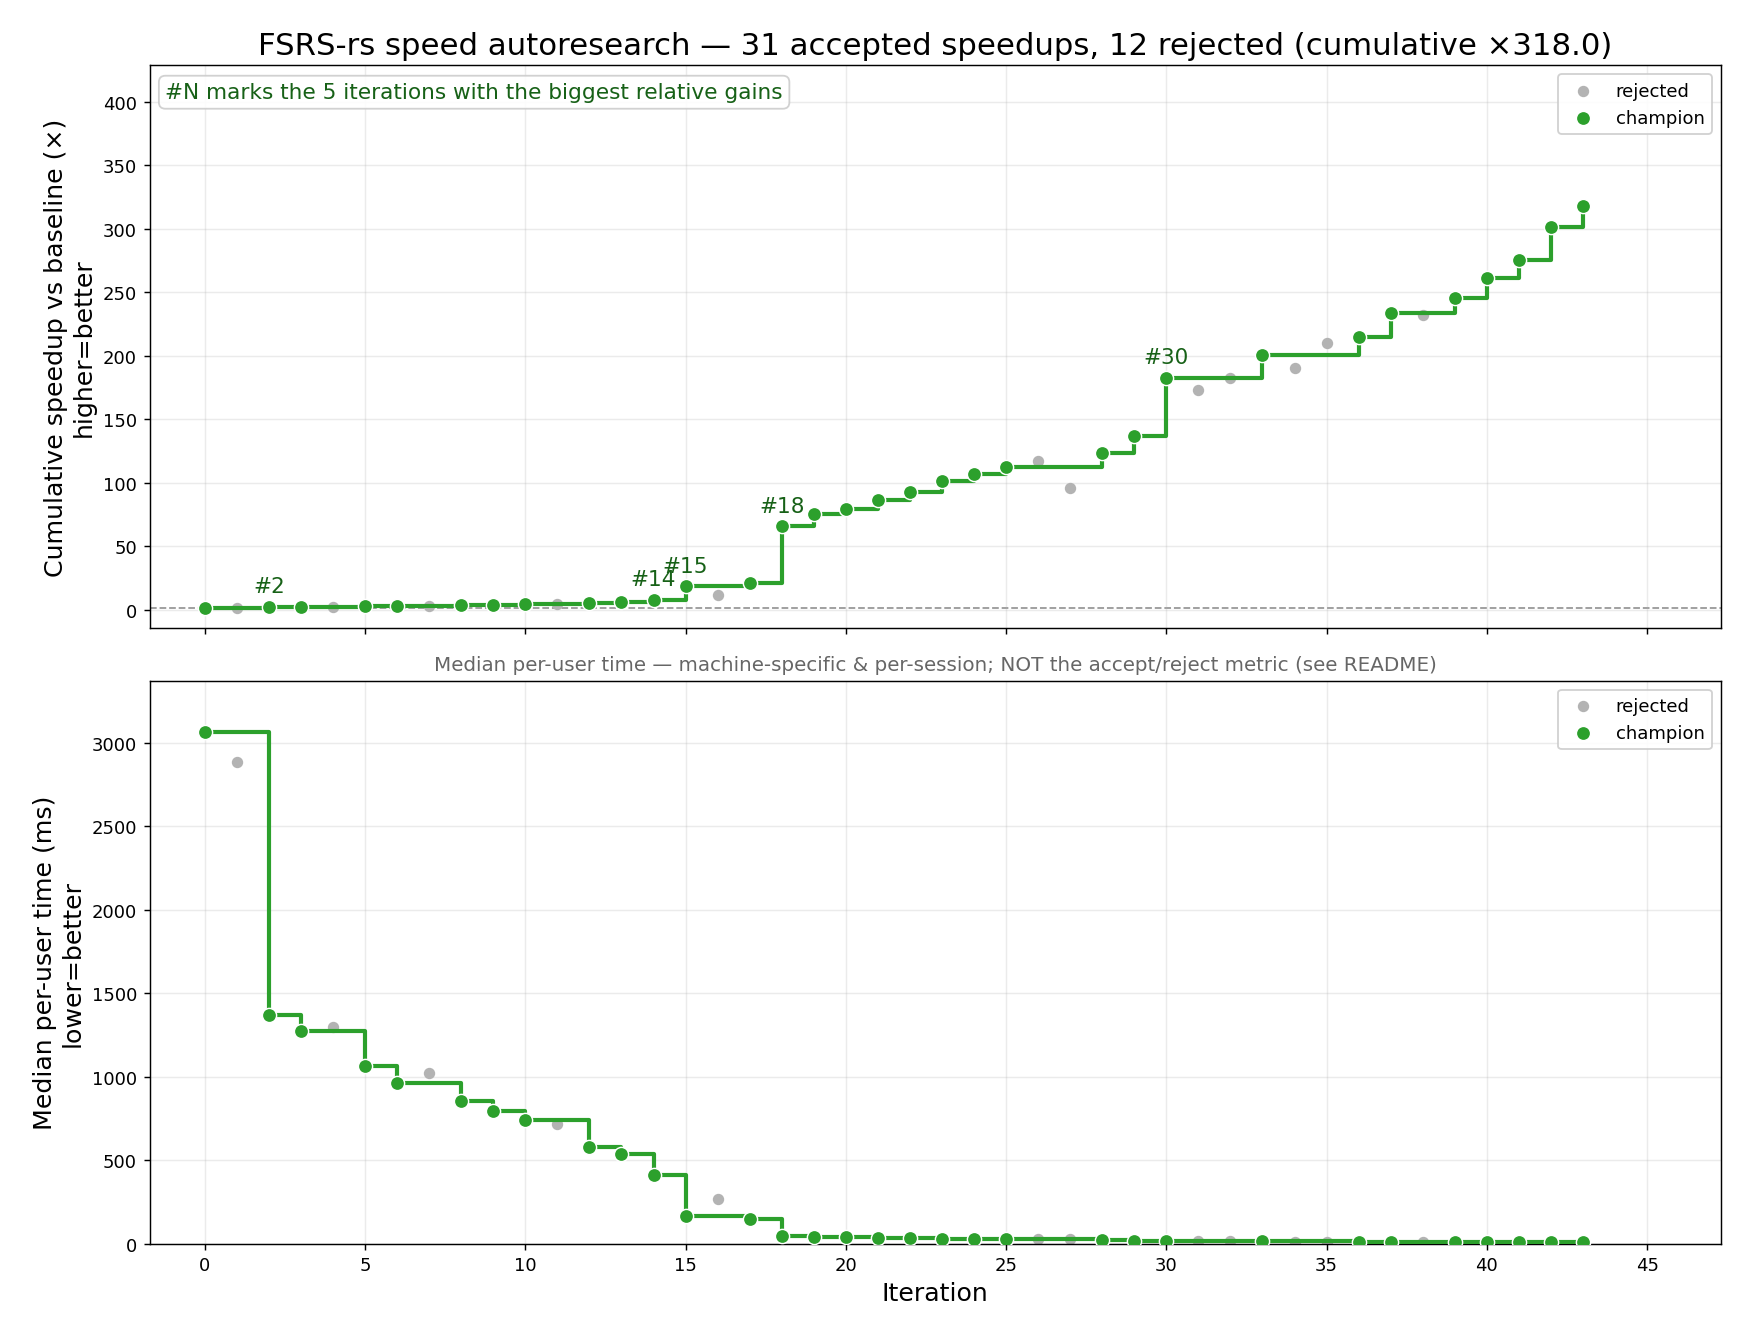
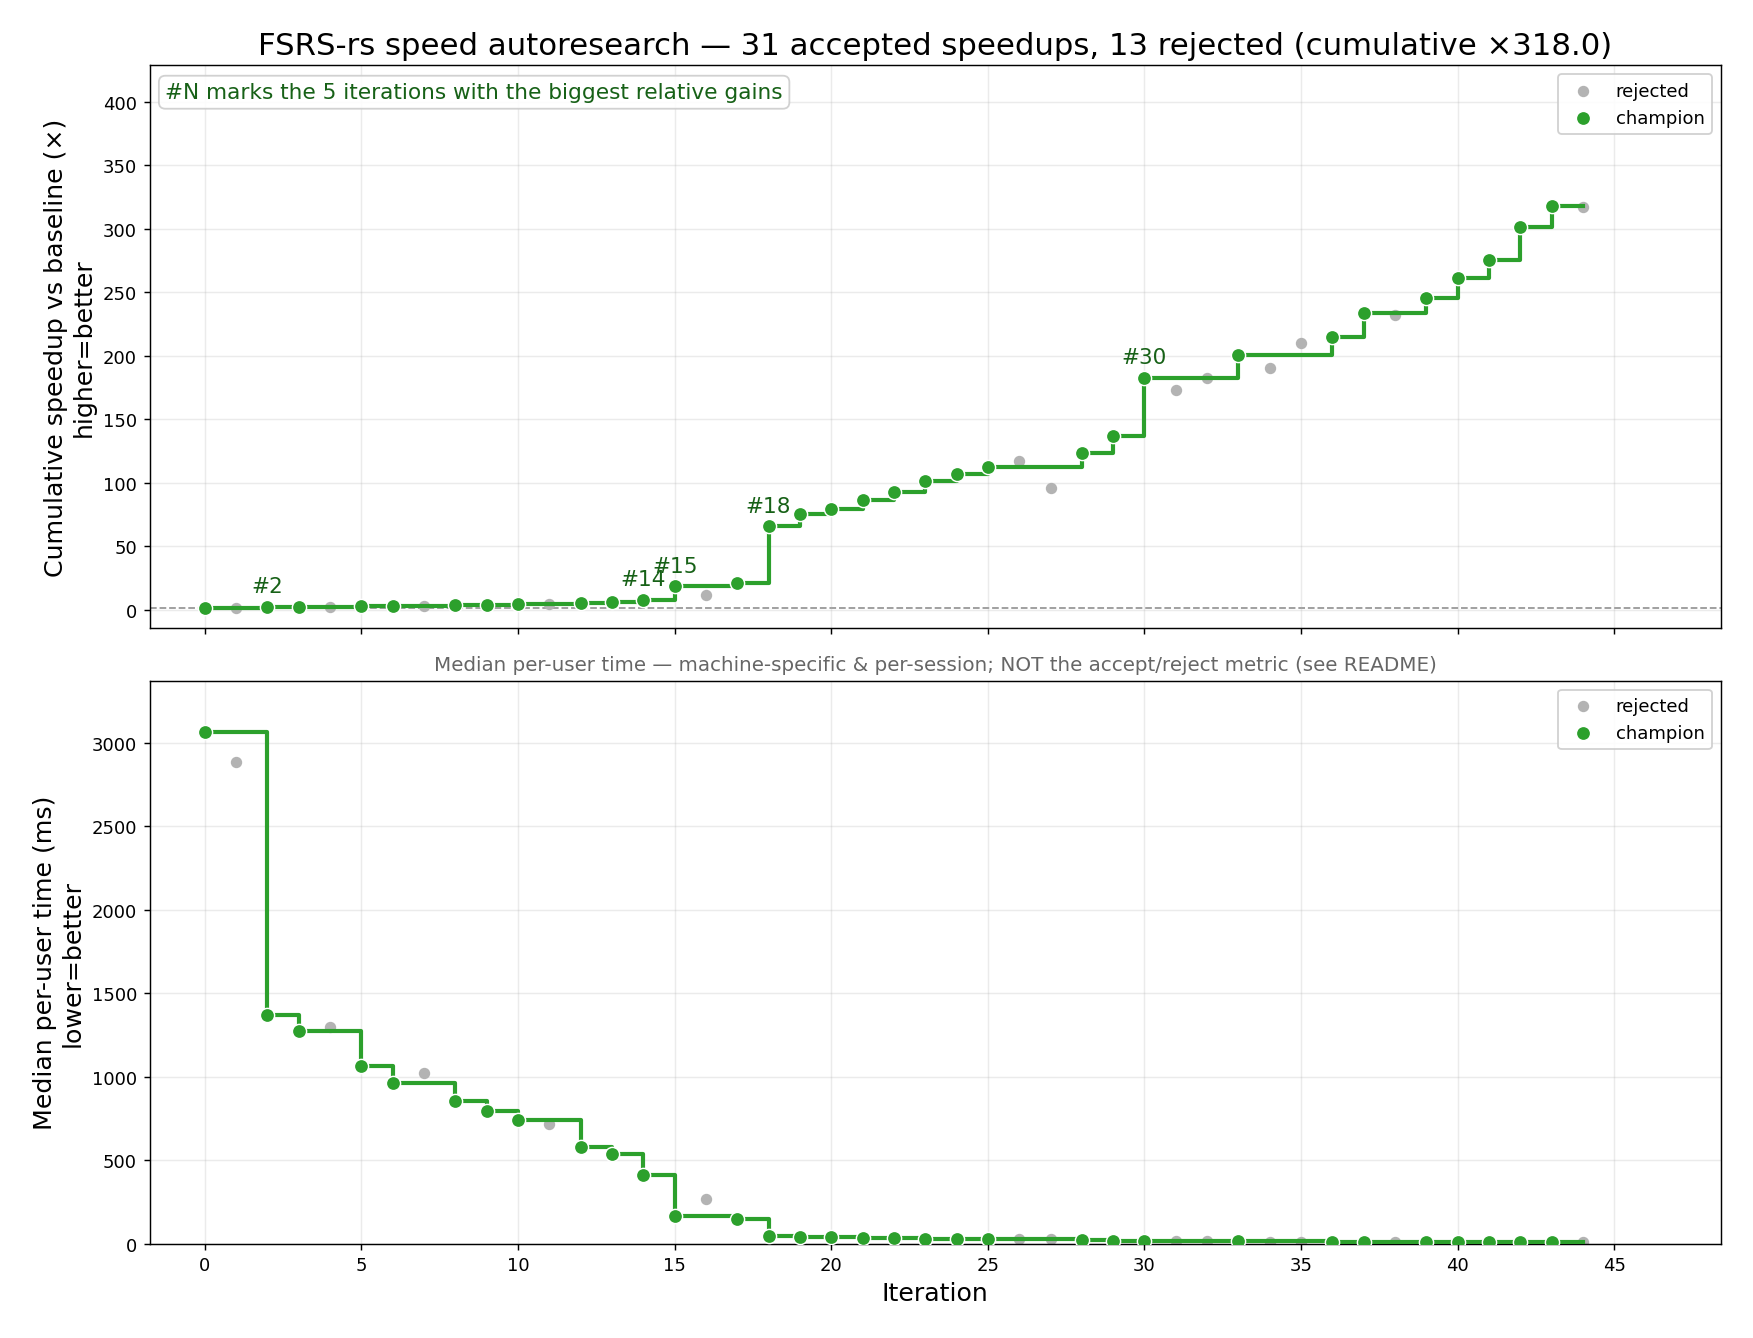
iter44 REJECTED: fold aa, w23, factor2 into their exponentials (x0.997)

diff --git a/result/history.md b/result/history.md
@@ -48,6 +48,7 @@ Accept metric: **median per-user speed_ratio ≥ 1.05** (constraint 12) AND **sp
 | 41 | 10 | 9 | 1.053 | 10907 | 10916 | 1.001 | 1.002 | ✓ | accepted | Backward: share product adjoints, merge divisions, apply weight-only factors once per group |
 | 42 | 9 | 8 | 1.097 | 10916 | 10972 | 1.005 | 1.013 | ✓ | accepted | Skip post-lapse branch on lapse-free steps; windowed path drops padding passthrough; share products |
 | 43 | 8 | 7 | 1.053 | 10972 | 11066 | 1.009 | 1.022 | ✓ | accepted | Base-2 exp/log in the recurrence; lapse-only terms skipped; signed weights; no burn Model |
+| 44 | 7 | 7 | 0.998 | 11066 | 11072 | 1.000 | 1.001 | ✓ | rejected | Fold aa, w23, factor2 into their exponentials (fewer multiplies per step) |
 
 **Cumulative speed_ratio (product of accepted): ×317.994** — upward-biased (winner's curse); anchor periodically vs iter-0 baseline.
 
